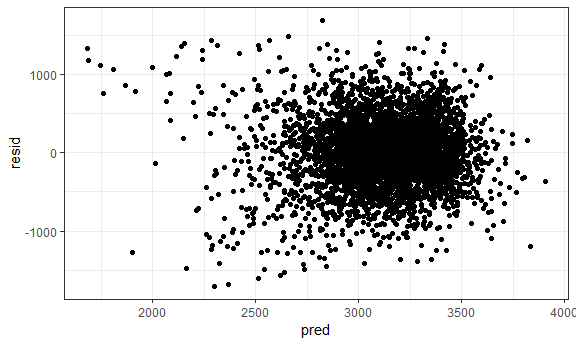
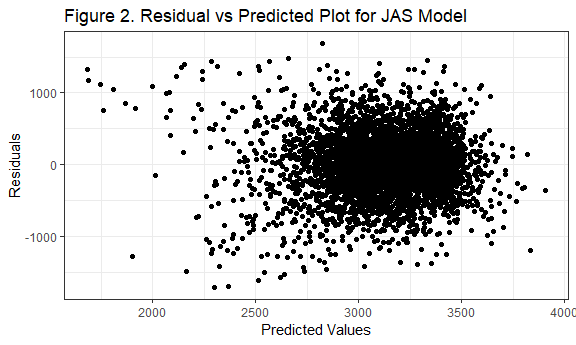
finish problem 2

diff --git a/Homework_6.md b/Homework_6.md
@@ -241,7 +241,11 @@ birth_data %>%
   modelr::add_residuals(jas_m) %>% 
   modelr::add_predictions(jas_m) %>% 
   ggplot(aes(x = pred, y = resid)) +
-  geom_point()
+  geom_point() +
+  labs(
+    title = "Figure 2. Residual vs Predicted Plot for JAS Model",
+    x = "Predicted Values",
+    y = "Residuals")
 ```
 
 <img src="Homework_6_files/figure-markdown_github/JAS model-1.png" width="90%" />
@@ -249,6 +253,8 @@ birth_data %>%
 The residual vs predictor plot looks fairly acceptable, as points cluster around 0, are fairly symmetrically distributed, and don't form an obvious pattern.
 
 #### Model Comparison
+
+Finally, the JAS model was compared to two others: (1) birthweight predicted by length at birth and gestational age, and (2) birthweight predicted by head circumference, length at birth, baby sex, and interaction between all these terms. Cross validation was completed by splitting the birthweight dataset into 100 training and test dataframes, and the three models were compared using the root mean squared errors (RMSEs) of these runs.
 
 ``` r
 # Length model
@@ -284,6 +290,23 @@ cv_df =
   mutate(rmse_jas    = map2_dbl(jas_m, test, ~rmse(model = .x, data = .y)),
          rmse_length = map2_dbl(length_m, test, ~rmse(model = .x, data = .y)),
          rmse_head   = map2_dbl(head_m, test, ~rmse(model = .x, data = .y)))
+
+# Plot prediction error distribution
+cv_df %>% 
+  select(starts_with("rmse")) %>% 
+  gather(key = model, value = rmse) %>% 
+  mutate(model = str_replace(model, "rmse_", ""),
+         model = fct_inorder(model)) %>% 
+  ggplot(aes(x = model, y = rmse)) + 
+  geom_violin() +
+  labs(
+    title = "Figure 3. RMSEs for Three Models",
+    x = "Model",
+    y = "RMSE")
 ```
 
+<img src="Homework_6_files/figure-markdown_github/model comparison-1.png" width="90%" />
+
 #### Conclusion
+
+In Figure 3 above, the linear model that uses head circumference, length at birth, baby sex, and these variables' interactions to predict birthweight clearly has the lowest root mean squared error and is the "best" fit. However, this model is very difficult to interpret, and since its RMSE is not *that* much better than the model with baby length and gestational age, it is advisable to use the length model as it can be interpreted with much greater ease.
